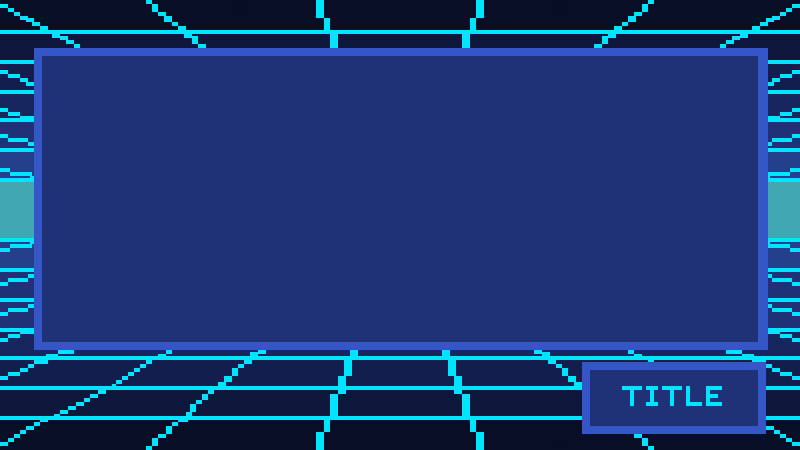
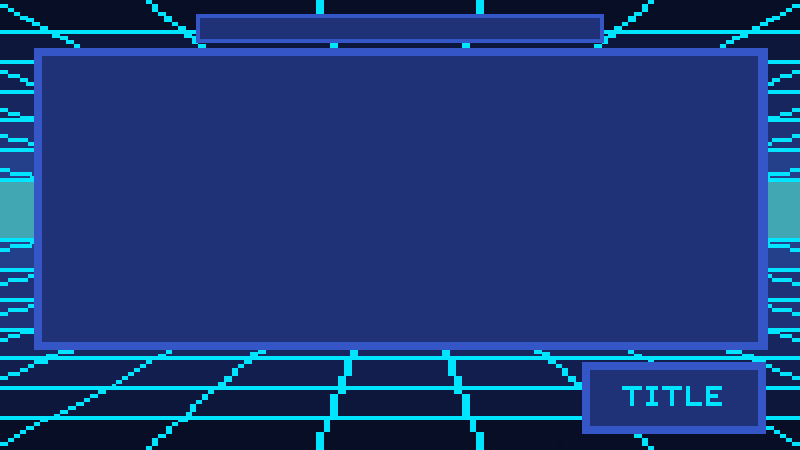
add ending results screen functionality

Changed region(s): [[0.2188, 0.0311, 0.7812, 0.0933]]

diff --git a/src/createTiles.cpp b/src/createTiles.cpp
@@ -15,7 +15,6 @@
 extern GameState *currState;
 
 
-bool test = false;
 void createPlayer(GameData &gd, const Resources &res, glm::vec2 pos) { // case for player put in one code block
     SDL_FRect collider = { 
         .x = 1,
@@ -50,11 +49,7 @@ void createPlayer(GameData &gd, const Resources &res, glm::vec2 pos) { // case f
     player.hook = Hook(player.pos, hookCollider, res.texGrapple);
     player.index = 0;
     gd.playerIndex = 0;
-    if(test) {
-        player.username = "tester";
-    } else {
     player.username = username;
-    }
     gd.players_.push_back(player);
 
     // Add itemStorage
@@ -327,8 +322,6 @@ void createTilesSpaceship(const SDLState &state, GameData &gd, const Resources &
                     }
                     case 6: //Player
                     {
-                        createPlayer(gd, res, pos);
-                        test = true;
                         createPlayer(gd, res, pos);
                         break; 
                     }
@@ -1465,7 +1458,6 @@ void initResults(const SDLState &state, GameData &gd, const Resources &res) {
 
         //calculate first round of placements and points
         gd.rd.roundResults.clear();
-        gd.rd.cumulativeResults.clear();
         for(Player &p: gd.players_) {
             p.pointsBeforeRound = p.points;
         }
@@ -1575,4 +1567,93 @@ void initEndResults(const SDLState &state, GameData &gd, const Resources &res) {
         Object border(pos, collider, res.texBigBorder);
         gd.md.settingsBorder = border;
         gd.md.settingsBorder.pos.y =  500;
-}
+
+         //calculate first round of placements and points
+        gd.rd.roundResults.clear();
+        for(Player &p: gd.players_) {
+            p.pointsBeforeRound = p.points;
+        }
+
+        //build placement order
+        std::vector<Player*> placementOrder;
+        //determine of player is accounted for in placement array
+        std::vector<bool> accounted(gd.players_.size(), false);
+        if(!gd.player_placement_.empty()) {
+            for(Player &p : gd.player_placement_) {
+                bool found = false;
+                for(int i=0; i<gd.players_.size(); i++) {
+                    if(gd.players_[i].username == p.username) {
+                        placementOrder.push_back(&gd.players_[i]);
+                        accounted[i] = true;
+                        found = true;
+                        break;
+                    }
+                }
+            }
+        }
+
+        //add all not in placement order to last tie list
+        std::vector<Player*> unplaced;
+        for(int i=0; i<gd.players_.size(); i++) {
+            if(!accounted[i]) {
+                unplaced.push_back(&gd.players_[i]);
+            }
+        }
+
+        //placement for tied last
+        int tiedLastPlacement = static_cast<int>(placementOrder.size()) + 1;
+
+         //build roundResults for placed
+        for(int i=0; i<placementOrder.size(); i++) {
+            Player* p = placementOrder[i];
+            int placement = i+1;
+            int pointsEarned = POINTS_BY_PLACEMENT[placement];
+
+            p->points += pointsEarned;
+
+            ResultData::ResultEntry e;
+            e.player = p;
+            e.placement = placement;
+            e.pointsEarned = pointsEarned;
+            gd.rd.roundResults.push_back(e);
+        }
+        //add unplaced
+        if(!unplaced.empty()) {
+            int placement = tiedLastPlacement;
+            int pointsEarned = POINTS_BY_PLACEMENT[placement];
+            for(Player* p: unplaced) {
+                p->points+=pointsEarned;
+                ResultData::ResultEntry e;
+                e.player = p;
+                e.placement = placement;
+                e.pointsEarned = pointsEarned;
+                gd.rd.roundResults.push_back(e);
+            }
+        }
+
+         //build cummulative results
+        for(Player &p: gd.players_) {
+            ResultData::ResultEntry e;
+            e.player = &p;
+            e.pointsEarned = p.points;
+            e.placement = 0;
+            gd.rd.cumulativeResults.push_back(e);
+        }
+        //sort based on pointsEarned
+        std::sort(gd.rd.cumulativeResults.begin(), gd.rd.cumulativeResults.end(), [](const ResultData::ResultEntry &a, const ResultData::ResultEntry &b) {
+            if(a.pointsEarned != b.pointsEarned) {
+                return a.pointsEarned > b.pointsEarned;
+            }
+            return a.player->username < b.player->username;
+        });
+
+        //assign places
+        int place = 1;
+        for(int i=0; i<gd.rd.cumulativeResults.size(); i++) {
+            if (i > 0 && gd.rd.cumulativeResults[i].pointsEarned < gd.rd.cumulativeResults[i-1].pointsEarned) {
+                place = i+1;
+            }
+            gd.rd.cumulativeResults[i].placement = place;
+        }
+
+    }

diff --git a/src/drawMenu.cpp b/src/drawMenu.cpp
@@ -172,32 +172,6 @@ void drawResults(const SDLState &state, GameData &gd, Resources res, float delta
         gd.md.settingsBorder.draw(state, gd,static_cast<float>(gd.md.settingsBorder.texture->w) * 2, static_cast<float>(gd.md.settingsBorder.texture->h)*2);
     }
 
-//    printf("=== ROUND RESULTS ===\n");
-// for (auto &e : gd.rd.roundResults) {
-//     printf("%d. %s  +%d  (total after round: %d)\n",
-//         e.placement,
-//         e.player->username.c_str(),
-//         e.pointsEarned,
-//         e.player->points);
-// }
-
-// printf("\n=== CUMULATIVE STANDINGS ===\n");
-// for (auto &e : gd.rd.cumulativeResults) {
-//     printf("%d. %s  total: %d\n",
-//         e.placement,
-//         e.player->username.c_str(),
-//         e.pointsEarned);
-// }
-
-// printf("\n=== ALL PLAYERS RAW ===\n");
-// for (auto &p : gd.players_) {
-//     printf("player index %d: %s, points=%d, lastCheckpoint=%d\n",
-//         p.index,
-//         p.username.c_str(),
-//         p.points,
-//         p.lastCheckpoint);
-// }
-
     //render header
     SDL_Color white = { 255, 255, 255, 255 };
     int w = 400 ,h = 30;
@@ -285,7 +259,67 @@ void drawEndResults(const SDLState &state, GameData &gd, Resources res, float de
         gd.md.settingsBorder.draw(state, gd,static_cast<float>(gd.md.settingsBorder.texture->w) * 2, static_cast<float>(gd.md.settingsBorder.texture->h)*2);
     }
 
-    //sort players by points and create row for each item
+    //render header
+    SDL_Color white = { 255, 255, 255, 255 };
+    int w = 400 ,h = 30;
+    SDL_Texture* header = createTextTexture(state.renderer, gd.md.font, "Final Results", white, w, h);
+    if (header) {
+        SDL_FRect dst = { 400 - w/2.0f, 20.0f, static_cast<float>(w), static_cast<float>(h) };
+        SDL_RenderTexture(state.renderer, header, nullptr, &dst);
+        SDL_DestroyTexture(header);
+    }
+
+    //pick which list to render
+    std::vector<ResultData::ResultEntry> &list =  gd.rd.cumulativeResults;
+
+    //draw rows
+    float startX = 150.0f;
+    float startY = 60.0f;
+    float rowH = 30.0f;
+    float iconSize = 30.0f;
+
+    //for each entry/player
+    for(int i=0; i<list.size(); i++) {
+        ResultData::ResultEntry &entry = list[i];
+        Player* p = entry.player;
+        float y = startY + i * (rowH + 8.0f);
+
+        //number
+        std::string placeStr = std::to_string(entry.placement);
+        SDL_Texture* texPlace = createTextTexture(state.renderer, gd.md.font, placeStr, white, w, h);
+        if(texPlace) {
+            SDL_FRect dst = {startX, y + (rowH-h) / 2.0f, static_cast<float>(w), static_cast<float>(h)};
+            SDL_RenderTexture(state.renderer, texPlace, nullptr, &dst);
+            SDL_DestroyTexture(texPlace);
+        }
+
+        //username
+        std::string uname = p->username;
+        SDL_Texture* texName = createTextTexture(state.renderer, gd.md.font, uname, white, w, h);
+        if(texName) {
+            SDL_FRect dst = {startX + 60.0f, y+(rowH-h) / 2.0f, static_cast<float>(w), static_cast<float>(h)};
+            SDL_RenderTexture(state.renderer, texName, nullptr, &dst);
+            SDL_DestroyTexture(texName);
+        }
+
+        //icon
+        SDL_Texture* icon = res.texIdle[p->character];
+        if(icon) {
+            SDL_FRect dst = {startX + 200.0f, y+(rowH-iconSize)/2.0f, iconSize, iconSize};
+            SDL_FRect src = {0,0,static_cast<float>(icon->w), static_cast<float>(icon->h)};
+            SDL_RenderTexture(state.renderer, icon, &src, &dst);
+        }
+
+        //pts
+        std::string ptsString;
+        ptsString = std::to_string(entry.pointsEarned) + " pts";
+        SDL_Texture* texPoints = createTextTexture(state.renderer, gd.md.font, ptsString, white, w, h);
+        if(texPoints) {
+            SDL_FRect dst = {500.0f, y+(rowH-h)/2.0f, static_cast<float>(w), static_cast<float>(h)};
+            SDL_RenderTexture(state.renderer, texPoints, nullptr, &dst);
+            SDL_DestroyTexture(texPoints);
+        }
+    }
 
     handleMousePointerEndResults(state,gd,res,deltaTime);
 }

diff --git a/src/updateMenu.cpp b/src/updateMenu.cpp
@@ -96,6 +96,10 @@ void resultsUpdate(const SDLState &state, GameData &gd, Resources &res, float de
     }
 }
 
+void endResultsUpdate(const SDLState &state, GameData &gd, Resources &res, float deltaTime) {
+
+}
+
 //
 //INPUT FUNCTIONS
 //
@@ -613,7 +617,7 @@ void handleCharSelectClick(const SDLState &state, GameData &gd, Resources &res, 
         } else if(gd.md.map_previews_[0].curAnimation == res.MAP_SNOW)  {
             currState->nextStateVal = SNOW;
         } else if (gd.md.map_previews_[0].curAnimation == res.MAP_GRAND_PRIX) {
-            currState->nextStateVal = SPACESHIP; //change back to grasslands
+            currState->nextStateVal = GRASSLANDS;
         } else {
             printf("INVALID MAP\n");
             return;

diff --git a/headers/updateMenu.h b/headers/updateMenu.h
@@ -8,6 +8,7 @@ struct Resources;
 void settingsUpdate(const SDLState &state, GameData &gd, Resources &res, float deltaTime);
 void charSelectUpdate(const SDLState &state, GameData &gd, Resources &res, float deltaTime);
 void resultsUpdate(const SDLState &state, GameData &gd, Resources &res, float deltaTime);
+void endResultsUpdate(const SDLState &state, GameData &gd, Resources &res, float deltaTime);
 
 void handleMousePointerCharSelect(const SDLState &state, GameData &gd, Resources &res, float deltaTime);
 void handleMousePointerSettings(const SDLState &state, GameData &gd, Resources &res, float deltaTime);

diff --git a/src/state.cpp b/src/state.cpp
@@ -157,7 +157,7 @@ GameState * changeState(GameState * tempState, GameData &gd){
             newState->render = drawEndResults;
             newState->init = initEndResults;
             newState->input = endResultsInputs;
-            newState->update = gameplaySettingsUpdate;
+            newState->update = endResultsUpdate;
             break;
         }
     }
